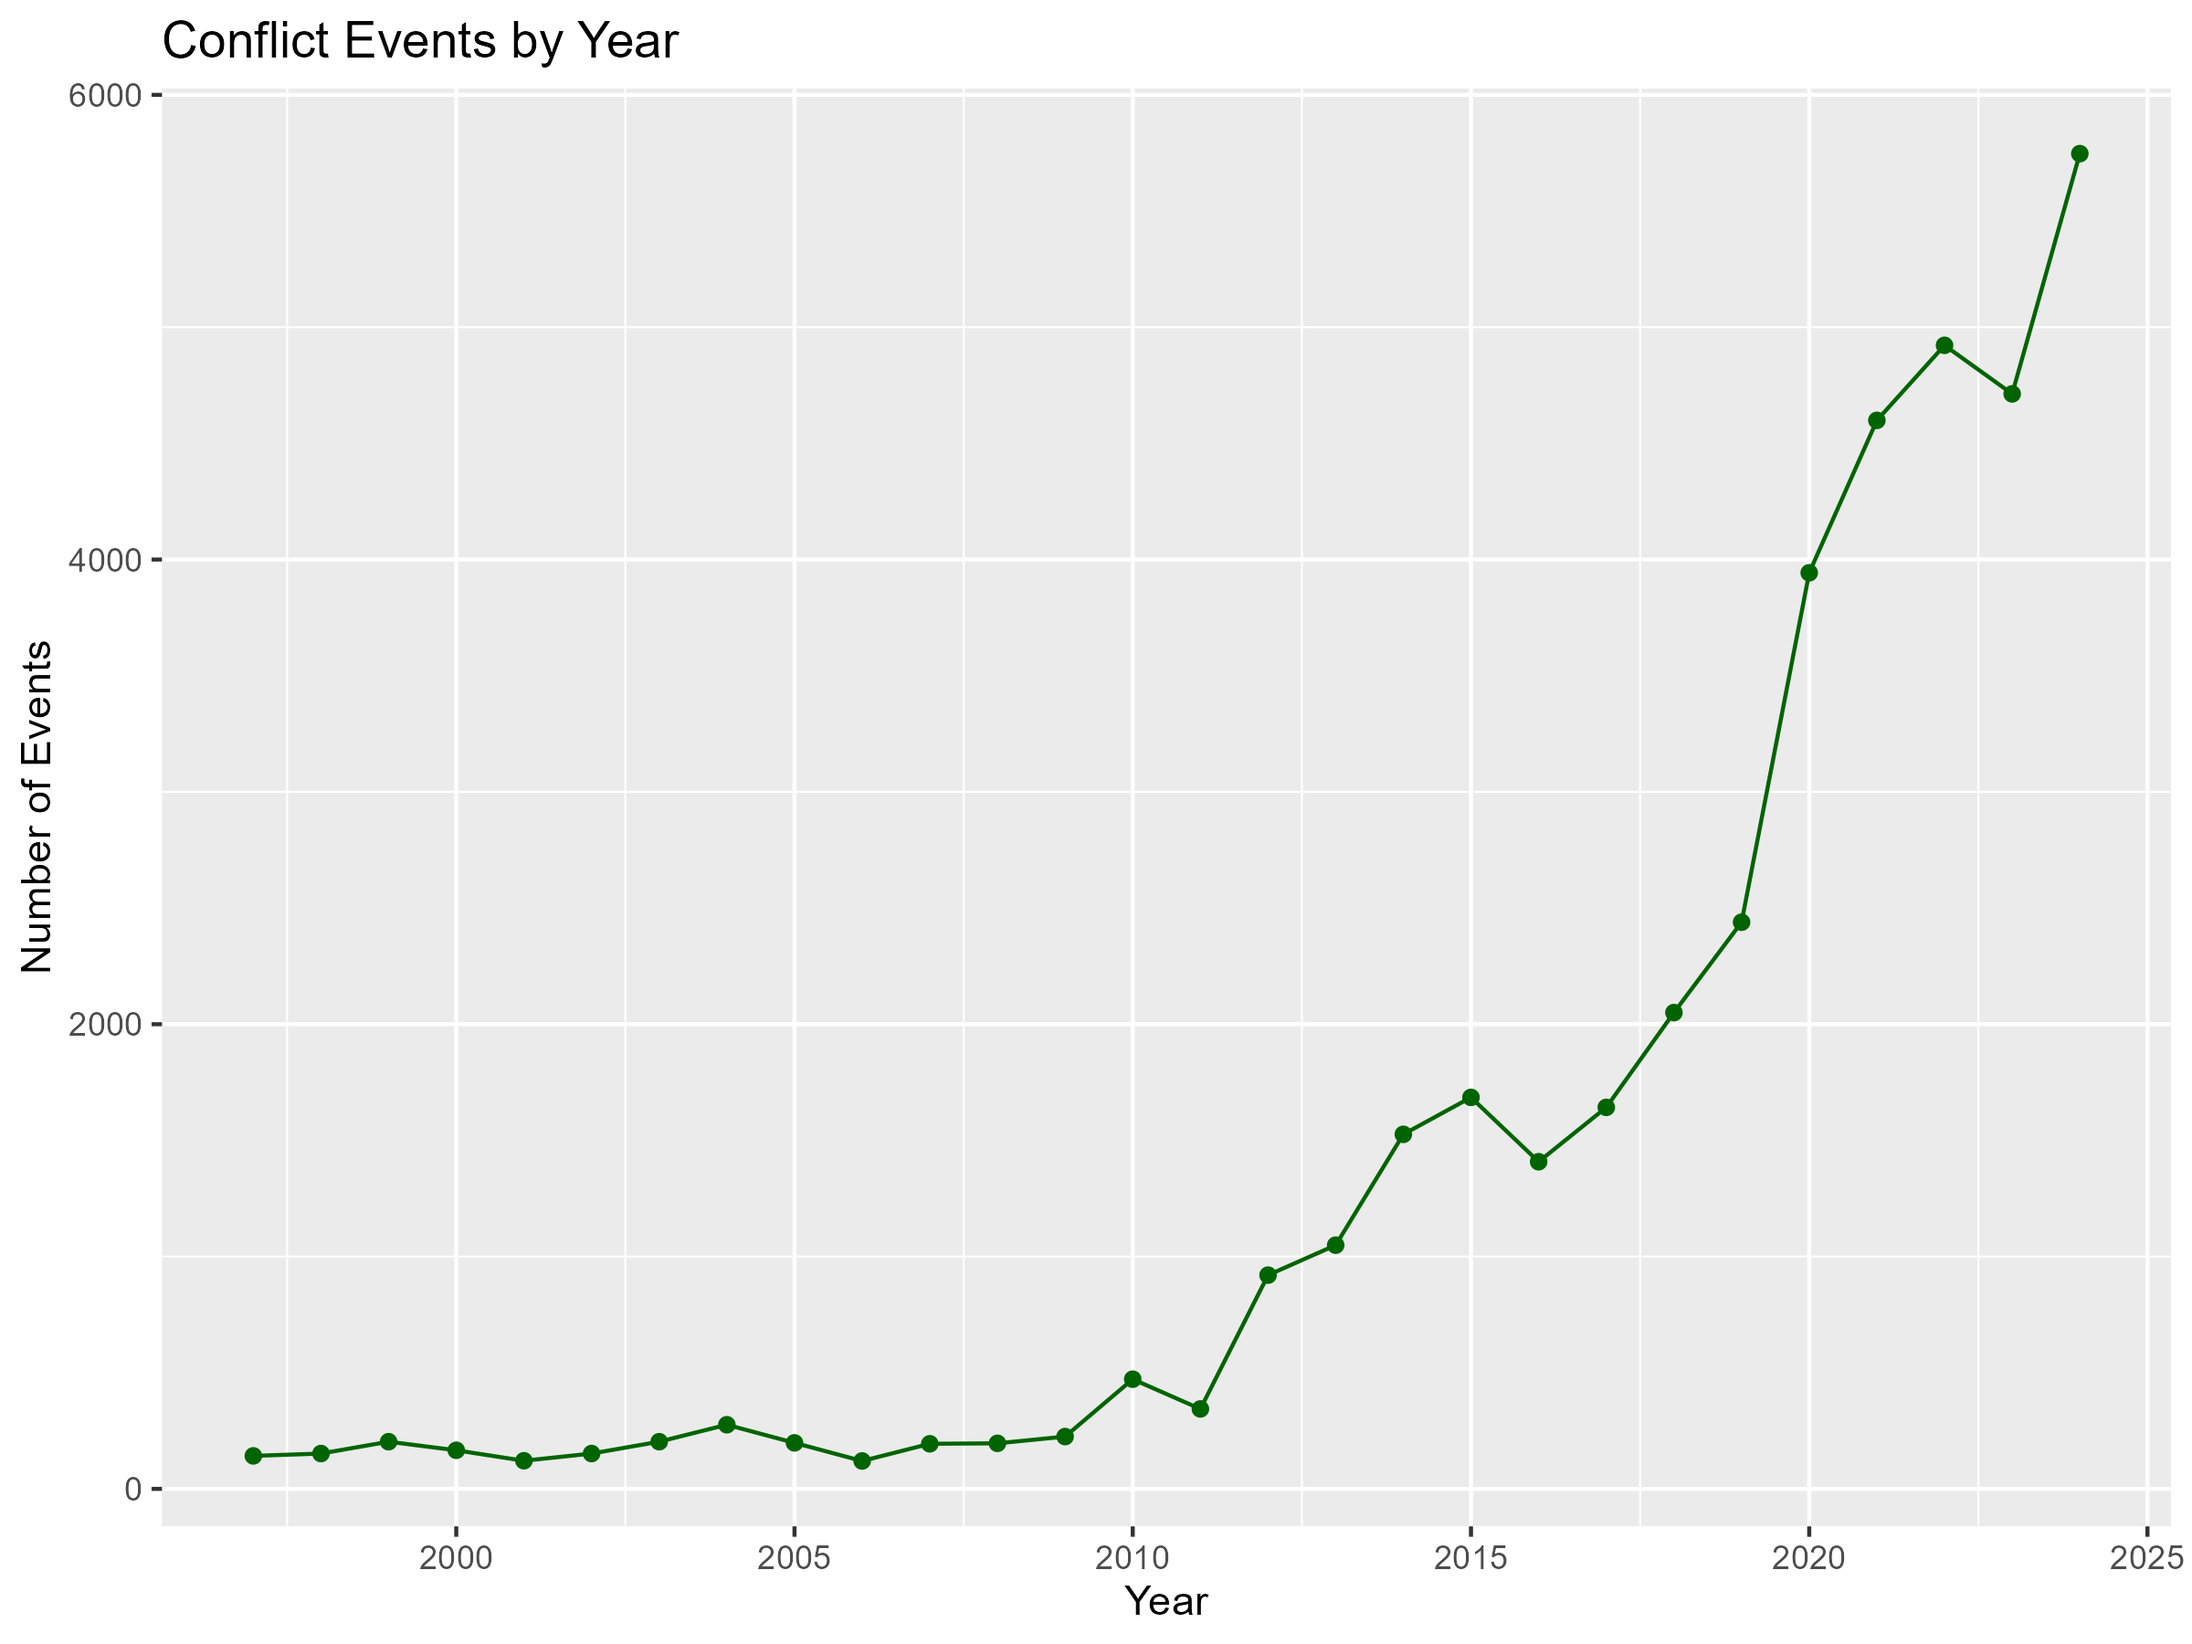
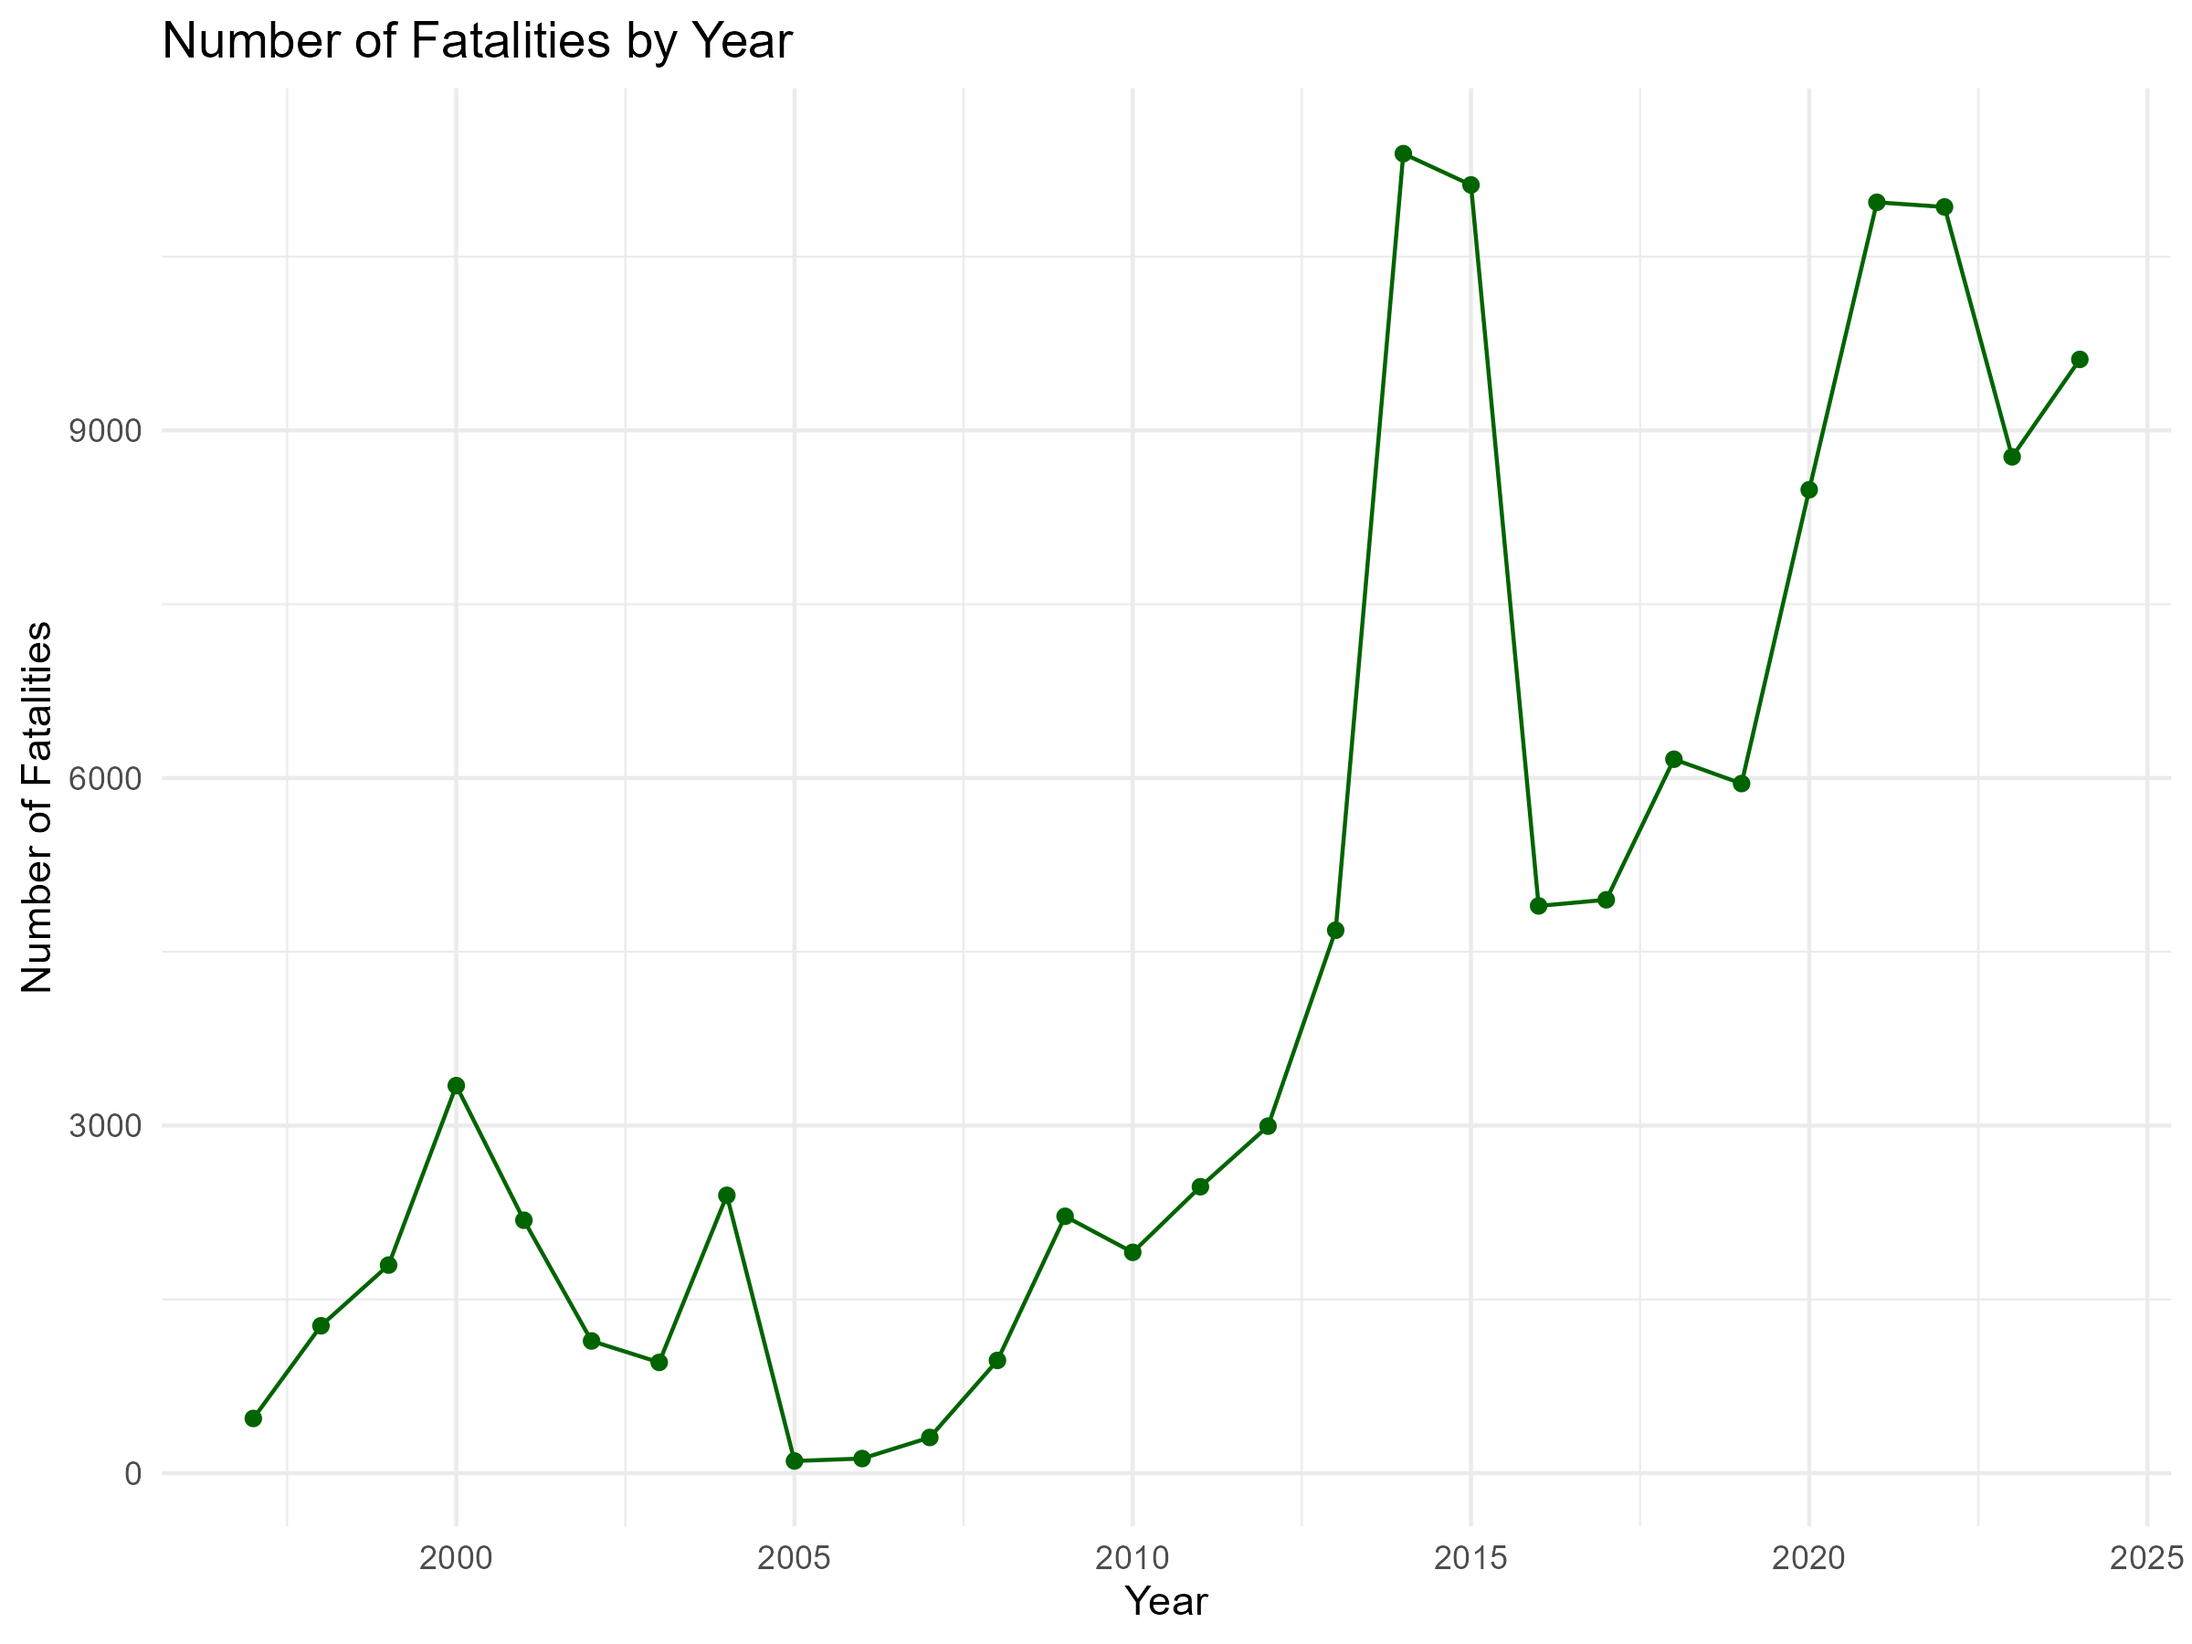
update plots

diff --git a/README.md b/README.md
@@ -217,28 +217,41 @@ The concept should be give advice to the government about:
 -   **Actor Motivations:** Political power struggles, religious ideologies, and economic interests.
 -   **Spatiotemporal Dynamics:** Seasonality of conflicts, geographical diffusion patterns, and the effects of policy interventions.
 
-
-
-
-
-
 ! All actor have the same colors in all plot Plot list
 
 1.  \(1\)
-2.  Event Types/ Actor/Fatality
+
+2.  Event Types/ Actor/Fatality ![](./output/figures/conflict_fata_yr_lin_plot.jpg) ![](./output/figures/conflict_event_yr_lin_plot.jpg)
+
 3.  Nigeria Maps (+cities) with event location
+
 4.  Distribution of each top 10 actos facet by event type  Categorize the actor for better plotting  Better color choice for dots  Remove Civilians
+
 5.  \(2\)
-6.  Basic plots: Pie Chart proportion of event type, cum sum fatalities (3), (4)
+
+6.  Basic plots: Pie Chart proportion of event type, cum sum fatalities (3), (4) ![](./output/figures/event_type_pie_chart.jpg)
+
 7.  Conflict Events by Year and Event Type
-8.  
+
+![](./output/gif/armed_conf_evt_act_year.gif) ![](./output/figures/armed_conf_cumulative.png)
+
+1.  
 
 To try:
 
 1.  Network Descỉptive
+
 2.  Motion of top 10 groups (actor) over time (year)
+
 3.  Line over years for political events
+
 4.  Improve stacked bar chart of events and sub events type
+
 5.  Stacked line chart for fatalities in very month (span: 5 years each)
-6.  Filter out event with time precision 3 for more specific date and time
-7.  Chi-Square Test: Actor vs. Fatality
+
+    (choose one plot)
+
+![](./output/figures/month_total_confli_stack_line_plot.jpg) ![](./output/figures/month_total_fata_stack_line_plot.jpg)
+
+1.  Filter out event with time precision 3 for more specific date and time
+2.  Chi-Square Test: Actor vs. Fatality

diff --git a/Report.md b/Report.md
@@ -104,7 +104,6 @@
     ![](./output/gif/event_type_year.gif)\
     ![](./output/gif/event_type_month.gif)
 
-
 ## 3.3 Distribution of Actors
 
 *Use long data to fully count actors*\
@@ -139,8 +138,6 @@
     Cramer's V Coefficient
 
 ## 4.3 Time vs Geography
-
-
 
 # 5 Advanced Analysis
 
